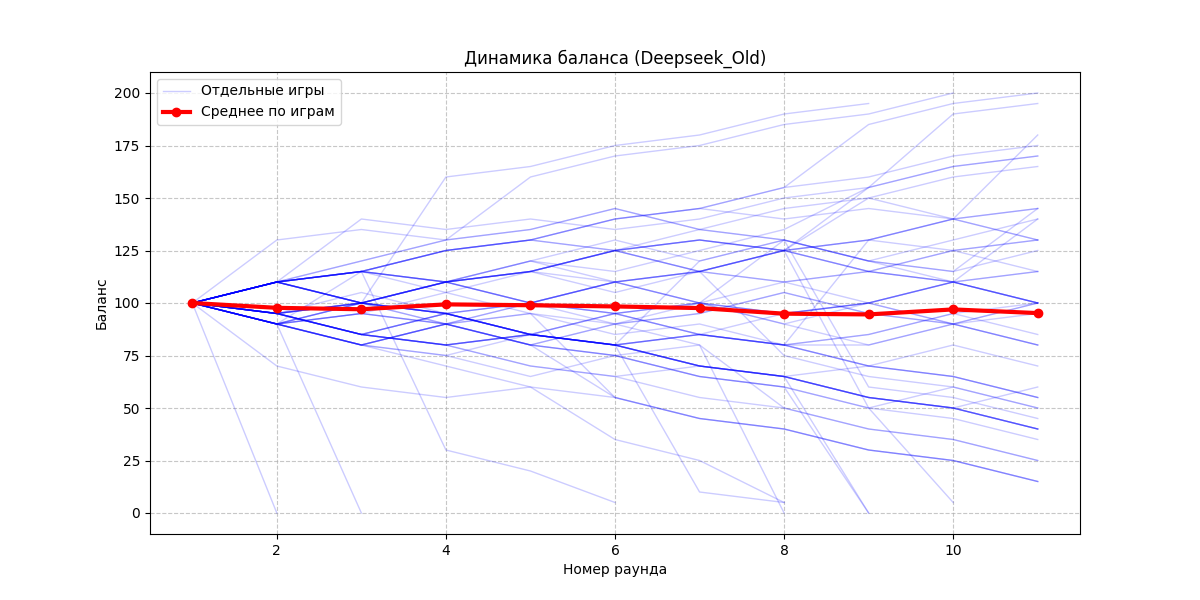
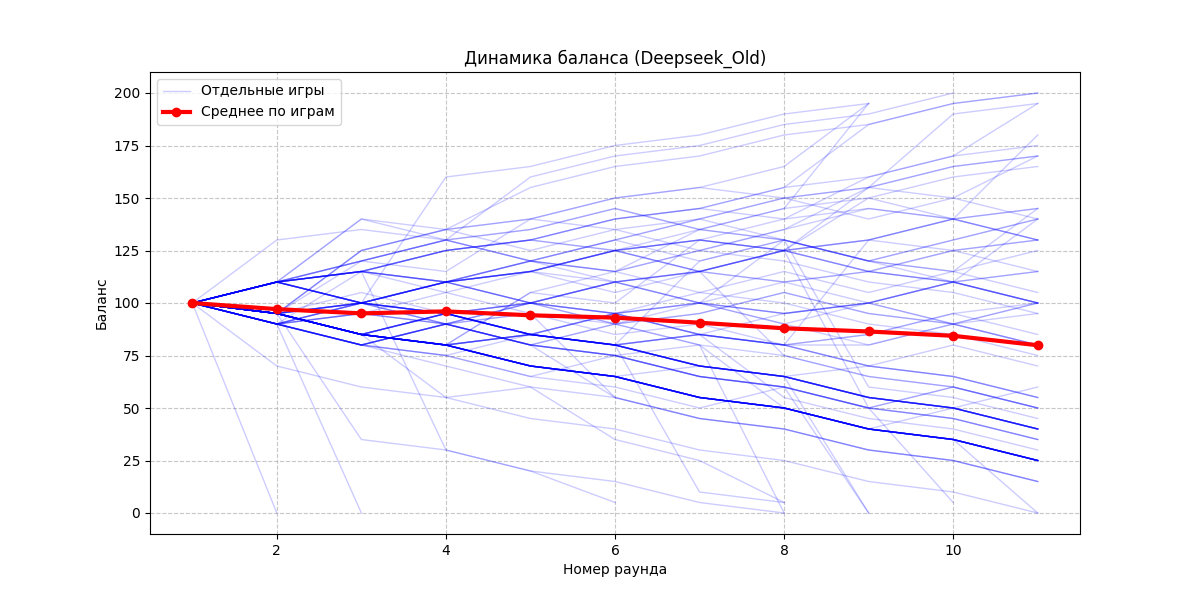
Adding newer games of deepseek vs itself + removing one feature from ddqn to avoid multicollinearity + adding all in player

diff --git a/examples/players/mlplayerddqn.py b/examples/players/mlplayerddqn.py
@@ -15,22 +15,6 @@ ACTION_IDX = {a: i for i, a in enumerate(ACTIONS)}
 
 
 class DuelingQNetwork(nn.Module):
-    # def __init__(self, input_dim, output_dim):
-    #     super(DuelingQNetwork, self).__init__()
-    #     self.feature = nn.Sequential(
-    #         nn.Linear(input_dim, 128),
-    #         nn.ReLU()
-    #     )
-    #     self.value_stream = nn.Sequential(
-    #         nn.Linear(128, 128),
-    #         nn.ReLU(),
-    #         nn.Linear(128, 1)
-    #     )
-    #     self.advantage_stream = nn.Sequential(
-    #         nn.Linear(128, 128),
-    #         nn.ReLU(),
-    #         nn.Linear(128, output_dim)
-    #     )
 
     def __init__(self, input_dim, output_dim):
         super(DuelingQNetwork, self).__init__()
@@ -60,7 +44,7 @@ class DuelingQNetwork(nn.Module):
 
 
 class MLPlayerDDQN(BasePokerPlayer):
-    def __init__(self, model_path, initial_stack, state_dim=9, buffer_size=50000, batch_size=64, gamma=0.99, lr=1e-3,
+    def __init__(self, model_path, initial_stack, state_dim=8, buffer_size=50000, batch_size=64, gamma=0.99, lr=1e-3,
                  epsilon=1.0, epsilon_min=0.15, epsilon_decay=0.999, tau=0.01, alpha=0.6, beta=0.4):
         self.state_dim = state_dim
         self.action_dim = len(ACTIONS)
@@ -103,35 +87,66 @@ class MLPlayerDDQN(BasePokerPlayer):
         state = self.encode_state(hole_card, round_state)
         self.prev_state = state
         self.prev_stack = self.get_stack(round_state)
-        log_bluff = False
+        self.hole_card = hole_card
+
+        # Map valid actions to indices
+        valid_idxs = [ACTION_IDX[a['action']] for a in valid_actions]
 
         if random.random() < self.epsilon:
-            action_idx = random.choice(range(len(valid_actions)))
+            action_idx = random.choice(valid_idxs)
         else:
             with torch.no_grad():
                 state_tensor = torch.FloatTensor(state).unsqueeze(0).to(self.device)
-                q_values = self.policy_net(state_tensor)
-                action_idx = torch.argmax(q_values).item()
-            log_bluff = True
+                q_values = self.policy_net(state_tensor)[0]
+                masked_q = torch.full_like(q_values, -1e9)
+                for idx in valid_idxs:
+                    masked_q[idx] = q_values[idx]
+                action_idx = torch.argmax(masked_q).item()
 
         self.prev_action = action_idx
+        for a in valid_actions:
+            if ACTION_IDX[a['action']] == action_idx:
+                action = a['action']
+                amount = a.get('amount', 0)
+                if action == 'raise':
+                    amount = a['amount']['min']
+                return action, amount
+        # fallback
+        return valid_actions[0]['action'], valid_actions[0].get('amount', 0)
 
-        action = valid_actions[action_idx]['action']
-        amount = valid_actions[action_idx].get('amount', 0)
-        if action == 'raise':
-            amount = valid_actions[action_idx]['amount']['min']
-        # if log_bluff and amount > 0:
-        #     strength = state[0]
-        #     with open('log_bluff.txt', 'a') as f:
-        #         f.write(f'{strength}, {action}, \n')
-
-        return action, amount
+    # def declare_action(self, valid_actions, hole_card, round_state):
+    #     state = self.encode_state(hole_card, round_state)
+    #     self.prev_state = state
+    #     self.prev_stack = self.get_stack(round_state)
+    #     log_bluff = False
+    #
+    #     if random.random() < self.epsilon:
+    #         action_idx = random.choice(range(len(valid_actions)))
+    #     else:
+    #         with torch.no_grad():
+    #             state_tensor = torch.FloatTensor(state).unsqueeze(0).to(self.device)
+    #             q_values = self.policy_net(state_tensor)
+    #             action_idx = torch.argmax(q_values).item()
+    #         log_bluff = True
+    #
+    #     self.prev_action = action_idx
+    #
+    #     action = valid_actions[action_idx]['action']
+    #     amount = valid_actions[action_idx].get('amount', 0)
+    #     if action == 'raise':
+    #         amount = valid_actions[action_idx]['amount']['min']
+    #     # if log_bluff and amount > 0:
+    #     #     strength = state[0]
+    #     #     with open('log_bluff.txt', 'a') as f:
+    #     #         f.write(f'{strength}, {action}, \n')
+    #
+    #     return action, amount
 
     def receive_round_result_message(self, winners, hand_info, round_state):
         if self.prev_state is None or self.prev_action is None:
             return
 
-        reward = self.get_stack(round_state) - (self.prev_stack or 0)
+        reward = (self.get_stack(round_state) - (self.prev_stack or 0))/self.initial_stack
         self.rewards_log.append(reward)
         next_state = self.encode_state(self.hole_card, round_state)
         done = True
@@ -200,11 +215,12 @@ class MLPlayerDDQN(BasePokerPlayer):
         else:
             win_prop = 0.5
         if sum(self.opp_moves) == 0:
-            moves = [0.33, 0.33, 0.33]
+            moves = [0.33, 0.33]
         else:
             moves = []
             for m in self.opp_moves:
                 moves.append(m/sum(self.opp_moves))
+            moves.pop(2)
         return [strength, pot, num_community, pos, stack,win_prop] + moves
 
     def evaluate_hand_strength(self, hole_card, community_cards):

diff --git a/mllearn.py b/mllearn.py
@@ -77,18 +77,19 @@ from pypokerengine.api.game import setup_config, start_poker
 from examples.players.fish_player import FishPlayer
 from examples.players.random_player import RandomPlayer
 from examples.players.honest_player import HonestPlayer
+from examples.players.all_in_player import AllInPlayer
 
 import random
-def train_ddqn_selfplay(n_games=1000, rounds_per_game=100):
+def train_ddqn_selfplay(n_games=2000, rounds_per_game=100):
     results = []
     for i in range(n_games):
         print(f"🎮 Game {i+1}/{n_games}")
 
         # p1 = MLPlayerDDQN('dueling_ddqn_model_5.pt')
-        p1 = MLPlayerDDQN('dueling_ddqn_model_7.pt', 1000)
+        p1 = MLPlayerDDQN('dueling_ddqn_model_8.pt', 1000)
         # p2 = MLPlayerDDQN('dueling_ddqn_model_6000.pt')
         # p2 = HonestPlayer()
-        opponent_type = random.choice([FishPlayer(), MLPlayerDDQN('dueling_ddqn_model_7.pt', 1000), RandomPlayer()])
+        opponent_type = random.choice([FishPlayer(), MLPlayerDDQN('dueling_ddqn_model_8.pt', 1000), AllInPlayer(), RandomPlayer()])
         # p2 = FishPlayer()
         # p2 = RandomPlayer()
         p2 = opponent_type
@@ -117,32 +118,3 @@ def train_ddqn_selfplay(n_games=1000, rounds_per_game=100):
     print(results)
     print(sum(results)/len(results))
 train_ddqn_selfplay()
-# from pypokerengine.api.game import setup_config, start_poker
-# from examples.players.fish_player import FishPlayer
-# from examples.players.console_player import ConsolePlayer
-# from examples.players.deepseek_player import DeepseekPlayer
-# from examples.players.mlplayerddqn import MLPlayerDDQN
-# from examples.players.honest_player import HonestPlayer
-
-# config = setup_config(max_round=10, initial_stack=100, small_blind_amount=5)
-# config.register_player(name="ddqn_player", algorithm=MLPlayerDDQN('dueling_ddqn_model_2000.pt'))
-# config.register_player(name="fair", algorithm=HonestPlayer())
-# results = []
-# for i in range(1000):
-#     print(f'Start {i}')
-#     try:
-#         game_result = start_poker(config, verbose=1)
-#         for player in game_result["players"]:
-#             if player["name"] == "ddqn_player":
-#                 results.append(player["stack"])
-#     except Exception as e:
-#         print(f'Simulation {i} failed due to {e}')
-# plt.plot(results)
-# plt.title("Trainer's Stack Over Games")
-# plt.xlabel("Game")
-# plt.ylabel("Stack")
-# plt.grid()
-# plt.show()
-# print(results)
-# print(sum(results)/len(results))
-

diff --git a/examples/players/all_in_player.py b/examples/players/all_in_player.py
@@ -1,0 +1,27 @@
+from pypokerengine.players import BasePokerPlayer
+
+class AllInPlayer(BasePokerPlayer):  # Do not forget to make parent class as "BasePokerPlayer"
+
+    #  we define the logic to make an action through this method. (so this method would be the core of your AI)
+    def declare_action(self, valid_actions, hole_card, round_state):
+        # valid_actions format => [raise_action_info, call_action_info, fold_action_info]
+        raise_action_info = valid_actions[2]
+        amt = raise_action_info['amount']['max']
+        action, amount = raise_action_info['action'], amt
+        return action, amount   # action returned here is sent to the poker engine
+
+    def receive_game_start_message(self, game_info):
+        pass
+
+    def receive_round_start_message(self, round_count, hole_card, seats):
+        pass
+
+    def receive_street_start_message(self, street, round_state):
+        pass
+
+    def receive_game_update_message(self, action, round_state):
+        pass
+
+    def receive_round_result_message(self, winners, hand_info, round_state):
+        pass
+

diff --git a/examples/players/deepseek_player.py b/examples/players/deepseek_player.py
@@ -78,7 +78,7 @@ class DeepSeekChat:
                 {"role": "assistant", "content": ai_response}
             ])
 
-            with open(f'{self.current_session}.txt', 'a') as file:
+            with open(f'logs\{self.current_session}.txt', 'a') as file:
                 file.write(ai_response + '\n')
                 # file.write(reasoning_content + '\n')
 
@@ -181,10 +181,10 @@ Return your action
     action, amount = self.__receive_action_from_deepseek(valid_actions, response, promt)
     if have_strength and amount > 0:
         if self.new_version:
-            with open('deepseek_new_bluff.txt', 'a') as f:
+            with open('games_data\deepseek_new_bluff.txt', 'a') as f:
                 f.write(f'{hand_strength}, {action}, {amount}, \n')
         else:
-            with open('deepseek_old_bluff.txt', 'a') as f:
+            with open('games_data\deepseek_old_bluff.txt', 'a') as f:
                 f.write(f'{hand_strength}, {action}, {amount}, \n')
 
     return action, amount

diff --git a/analysis.py b/analysis.py
@@ -18,7 +18,7 @@ from scipy.stats import ttest_rel, t
 mode = input('Analyze Deepseek vs Honest (type 0), DDQN vs Deepseek (type 1) or Deepseek_New vs Deepseek_old (type 2)')
 if mode == '1':
     filenames = ['games_data\ddqn.txt', 'games_data\deepseek_vs_ddqn.txt']
-    names = ['DDQN', 'Deepseek']
+    names = ['DDQN', 'DeepseekDDQN']
     file_pic = 'graphs\ddqn_vs_deepseek'
 elif mode == '2':
     filenames = ['games_data\deepseek_new.txt', 'games_data\deepseek_old.txt']
